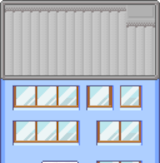
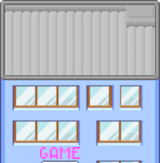
added signage and infinite levels upon completion

Changed region(s): [[0.25, 0.8896, 0.5, 0.9816]]

diff --git a/Rogue.py b/Rogue.py
@@ -21,7 +21,8 @@ pygame.init()
 # must be an even multiple of 32
 display_width = 640
 display_height = 640
-
+global game_beat
+game_beat = False
 global high_score
 high_score = 0
 global score
@@ -48,11 +49,11 @@ player_speed = 3 # number of pixels player moves per action
 obstacle_grid = [[0 for i in range(int(display_height/32-2))] for j in range(int(display_width/32-4))]
 
 global projectile_damage
-projectile_damage = 2
+projectile_damage = 10
 global projectile_speed
 projectile_speed = 6
 global fire_rate
-fire_rate = 50
+fire_rate = 20
 
 
 enemies = []
@@ -985,9 +986,16 @@ while True:
     if main_menu():
         while game_loop(current_level) and current_level < len(levels)-1:
             current_level += 1
+            if game_beat:
+                i = random.randrange(0, 7)
+                if i != 1:
+                    levels.append((random.randrange(7, 12), random.randrange(7, 12)*5, random.randrange(1, 5), random.randrange(0, 7) == 6))
+                else:
+                    levels.append((0, random.randrange(8, 20)*10, 0, True))
         if current_level >= len(levels)-1:
             high_score = score
             score = 0
+            game_beat = True
         current_level = 0
 #game_loop()
 pygame.quit() #stop pygame from running
